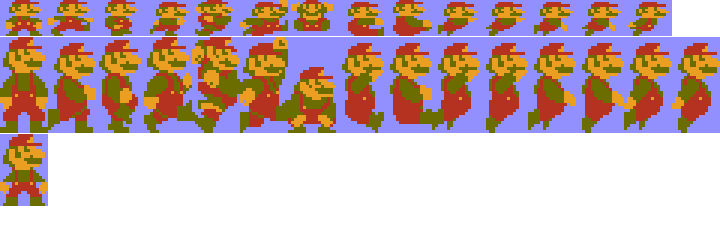
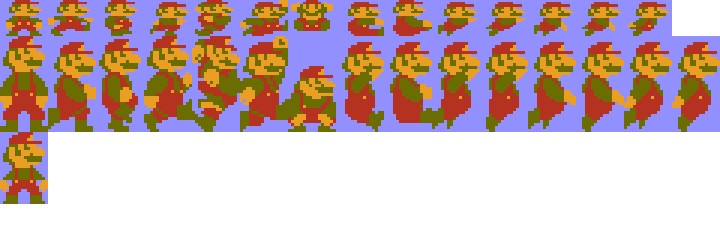
충돌박스 체크(캐릭터 이동 시)

diff --git a/boy.py b/boy.py
@@ -57,9 +57,9 @@ class IdleState:
 
     def draw(boy):
         if boy.dir == 1:
-            boy.image.clip_draw(0, (96 + 1)*2, 48, 36, boy.x, boy.y)
+            boy.image.clip_draw(0, 96*2, 48, 36, boy.x, boy.y)
         else:
-            boy.image.clip_composite_draw(0, (96 + 1)*2, 48, 36, 3.141592, 'v', boy.x, boy.y, 48, 36)
+            boy.image.clip_composite_draw(0, 96*2, 48, 36, 3.141592, 'v', boy.x, boy.y, 48, 36)
 
 
 class RunState:
@@ -86,9 +86,9 @@ class RunState:
 
     def draw(boy):
         if boy.dir == 1:
-            boy.image.clip_draw(int(boy.frame + 1) * 48, (96+1)*2, 48, 36, boy.x, boy.y)
+            boy.image.clip_draw(int(boy.frame + 1) * 48, 96*2, 48, 36, boy.x, boy.y)
         else:
-            boy.image.clip_composite_draw(int(boy.frame+1) * 48, (96+1)*2, 48, 32, 3.141592,'v', boy.x, boy.y, 48, 36)
+            boy.image.clip_composite_draw(int(boy.frame+1) * 48, 96*2, 48, 36, 3.141592,'v', boy.x, boy.y, 48, 36)
 
 
 next_state_table = {
